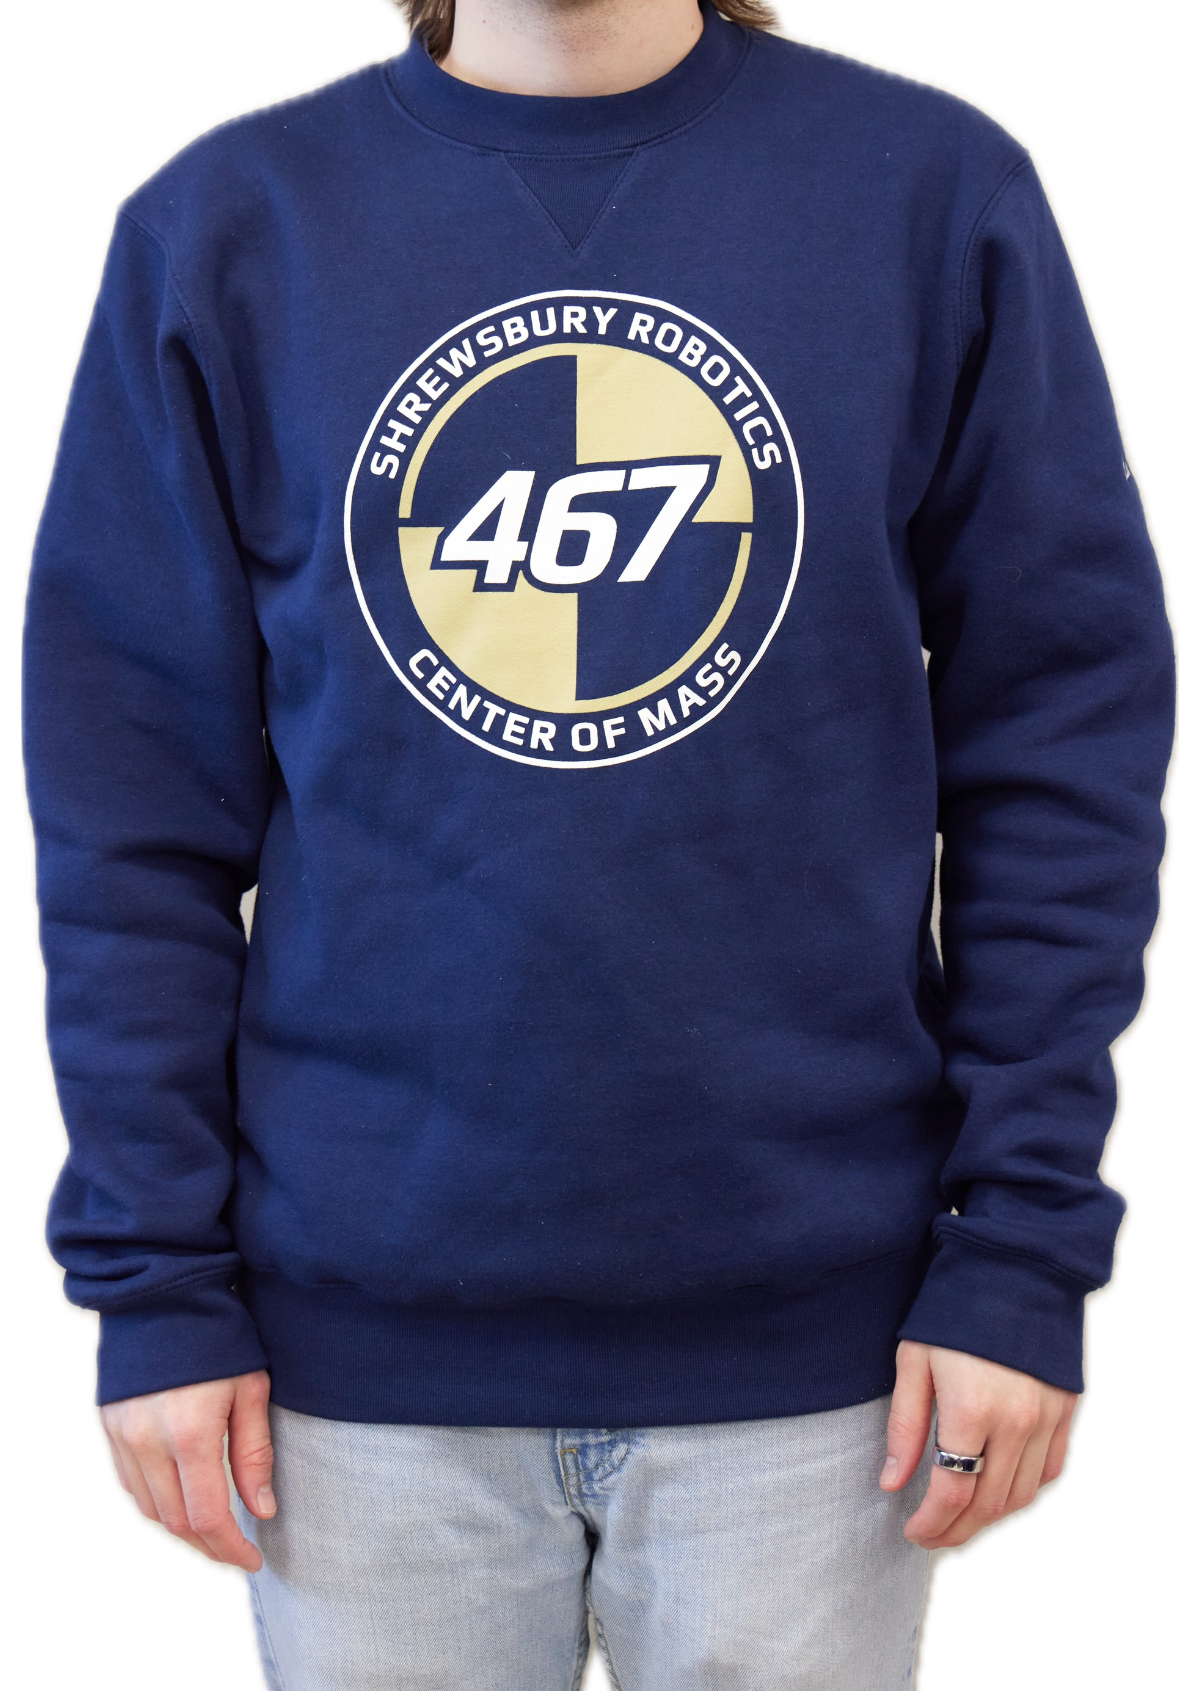
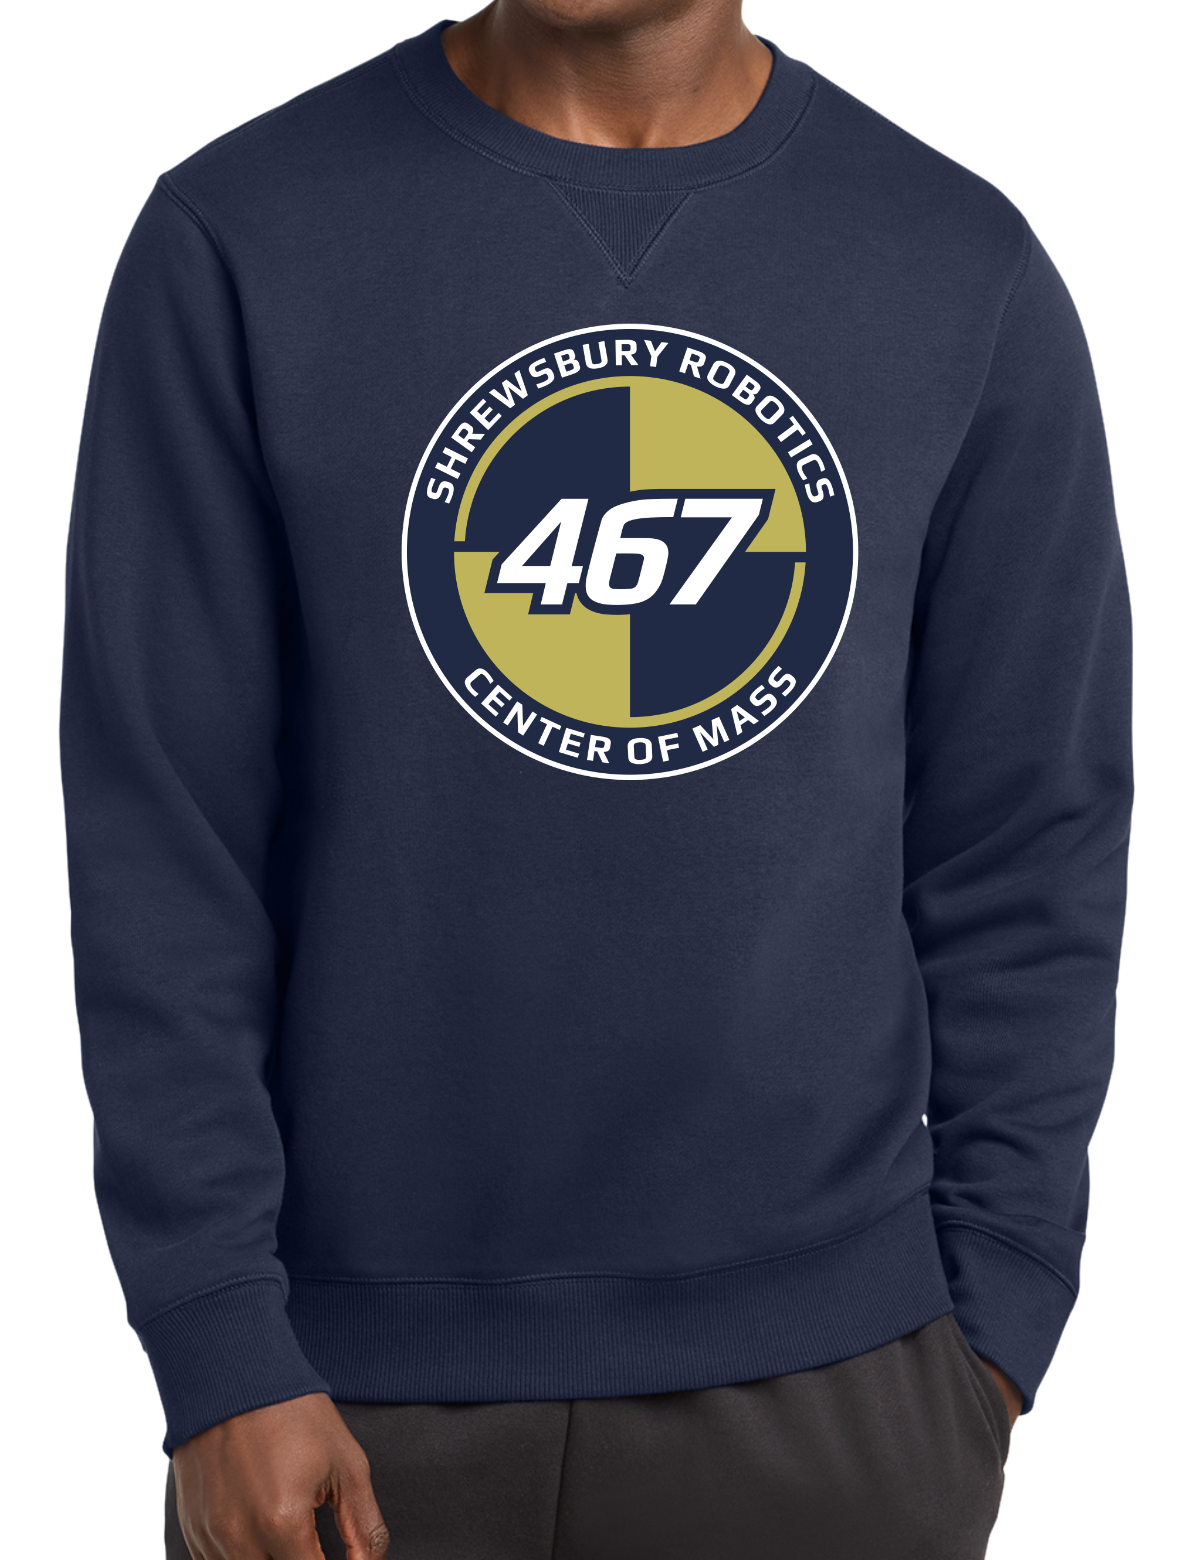
Updated merch pictures/pricing to latest info

diff --git a/content/resources/merchandise/index.md b/content/resources/merchandise/index.md
@@ -19,9 +19,9 @@ Items shown in **Bold** are either new, or have changed this year and may differ
 | ----------------- | ------- | --------| ----------- | ----- |
 | G800              | Navy    | {{< figure width=400px src="tshirt-front.png" >}} | [Gildan short sleeve T-Shirt](https://www.gildan.com/us/en/8000-adult-t-shirt-en_us/?color=777) - Back will be printed with team number, name and sponsor information. Design will be finalized during build season. | $12 |
 | G840              | Navy    | as above with long sleeves | [Gildan long sleeve T-Shirt](https://www.gildan.com/us/en/8400-adult-long-sleeve-t-shirt-en_us/?color=032) - Back will be printed with team number, name and sponsor information. Design will be finalized during build season. | $16 |
-| **ST271**         | Navy    | {{< figure width=400px src="hockey-front.png" >}} | [Sport-Tek Lace-up Hooded Sweatshirt](https://www.sanmar.com/p/6595_TrueNavy) - Comes with both white and gold laces in the team colors. Nothing printed on the back. Price includes your name embroidered on the arm. | $58 |
-| **ST254**         | Navy    | {{< figure width=400px src="hoodie-front.png" >}} | [Sport-Tek Hooded Sweatshirt](https://www.sanmar.com/p/5512_TrueNavy?text=ST254) - Nothing printed on the back. Price includes your name embroidered on the arm. | $53 |
-| 8424JA            | Navy    | {{< figure width=400px src="crewneck-front.png" >}} | [Premium Fleece Crew](https://www.jamericablanks.com/cgi-bin/liveb2b/wam_tmpl/catalog_product.p?site=JAW&layout=Responsive&page=catalog_product&product=8424) - Nothing printed on the back. Price includes your name embroidered on the arm. | $56 |
+| **ST271**         | Navy    | {{< figure width=400px src="hockey-front.png" >}} | [Sport-Tek Lace-up Hooded Sweatshirt](https://www.sanmar.com/p/6595_TrueNavy) - Comes with both white and gold laces in the team colors. Nothing printed on the back. Price includes your name embroidered on the arm. | $65 |
+| **ST254**         | Navy    | {{< figure width=400px src="hoodie-front.png" >}} | [Sport-Tek Hooded Sweatshirt](https://www.sanmar.com/p/5512_TrueNavy?text=ST254) - Nothing printed on the back. Price includes your name embroidered on the arm. | $55 |
+| **ST266**         | Navy    | {{< figure width=400px src="crewneck-front.png" >}} | [Premium Fleece Crew](https://www.sanmar.com/p/5517_TrueNavy) - Nothing printed on the back. Price includes your name embroidered on the arm. | $55 |
 
 ----
 
@@ -31,15 +31,15 @@ These options provide team members, alumni and supporters some alternatives to t
 
 | Guertins Item No. | Color   | Picture | Description | Price |
 | ----------------- | ------- | --------| ----------- | ----- |
-| F247              | Navy    | {{< figure width=400px src="quarter-zip.png" >}}     | [Sport-Tek Tech Fleece 1/4-Zip Pullover](https://sporttekusa.com/p/4718_TrueNavy) | $55 |
-| **CS625**         | Navy    | {{< figure width=400px src="hoodie-full-zip.png" >}} | [Cornerstone Heavyweight Sherpa-Lined Hooded Fleece Jacket](https://www.sanmar.com/p/6884_Navy) | $75 |
-| 5586              | Navy    | {{< figure width=400px src="full-zip-lady.png" >}}   | [Charles River Women's NU Fitness Jacket](https://www.charlesriverapparel.com/product/5586/Womens-Nu-Fitness-Jacket.html) | $65 |
-| 9586              | Navy    | {{< figure width=400px src="full-zip-man.png" >}}    | [Charles River Men's NU Fitness Jacket](https://www.charlesriverapparel.com/product/9586/Mens-Nu-Fitness-Jacket.html) | $65 |
-| **88181**         | Navy    | {{< figure width=400px src="polo-shirt-man.png" >}}  | [Core365 Men's Origin Performance Piqué Polo](https://www.ssactivewear.com/p/core365/88181) | $25 |
-| **78181**         | Navy    | {{< figure width=400px src="polo-shirt-lady.png" >}} | [Core365 Women's Origin Performance Piqué Polo](https://www.ssactivewear.com/p/core365/78181) | $25 |
+| F247              | Navy    | {{< figure width=400px src="quarter-zip.png" >}}     | [Sport-Tek Tech Fleece 1/4-Zip Pullover](https://sporttekusa.com/p/4718_TrueNavy) | $62 |
+| **CS625**         | Navy    | {{< figure width=400px src="hoodie-full-zip.png" >}} | [Cornerstone Heavyweight Sherpa-Lined Hooded Fleece Jacket](https://www.sanmar.com/p/6884_Navy) | $82 |
+| 5586              | Navy    | {{< figure width=400px src="full-zip-lady.png" >}}   | [Charles River Women's NU Fitness Jacket](https://www.charlesriverapparel.com/product/5586/Womens-Nu-Fitness-Jacket.html) | $68 |
+| 9586              | Navy    | {{< figure width=400px src="full-zip-man.png" >}}    | [Charles River Men's NU Fitness Jacket](https://www.charlesriverapparel.com/product/9586/Mens-Nu-Fitness-Jacket.html) | $68 |
+| **88181**         | Navy    | {{< figure width=400px src="polo-shirt-man.png" >}}  | [Core365 Men's Origin Performance Piqué Polo](https://www.ssactivewear.com/p/core365/88181) | $26 |
+| **78181**         | Navy    | {{< figure width=400px src="polo-shirt-lady.png" >}} | [Core365 Women's Origin Performance Piqué Polo](https://www.ssactivewear.com/p/core365/78181) | $26 |
 | **CP82**          | Navy    | {{< figure width=400px src="baseball-hat.png" >}}    | [Port Authority® Brushed Twill Cap](https://marketing.sanmar.com/cs/CatalogBrowser?todo=ss&productId=CP82) | $16 |
 | STC28             | Navy / White | {{< figure width=400px src="pom-pom.png" >}}    | [Sport-Tek Stripe Pom Pom Beanie](https://www.sporttekusa.com/p/6960_TrNvWhite) | $15 |
-| **EB912**         | Navy    | {{< figure width=400px src="backpack.png" >}}        | [Eddie Bauer Adventurer Backpack](https://www.sanmar.com/p/60598_RiverBlNv) | $60 |
+| **EB912**         | Navy    | {{< figure width=400px src="backpack.png" >}}        | [Eddie Bauer Adventurer Backpack](https://www.sanmar.com/p/60598_RiverBlNv) | $67 |
 | DT6100            | Oatmeal Heather | {{< figure width=400px src="alumni.png" >}}  | [District V.I.T. Fleece Hoodie](https://districtclothing.com/p/10641_OatHthr) - "ALUMNI" | $40 |
 
 
